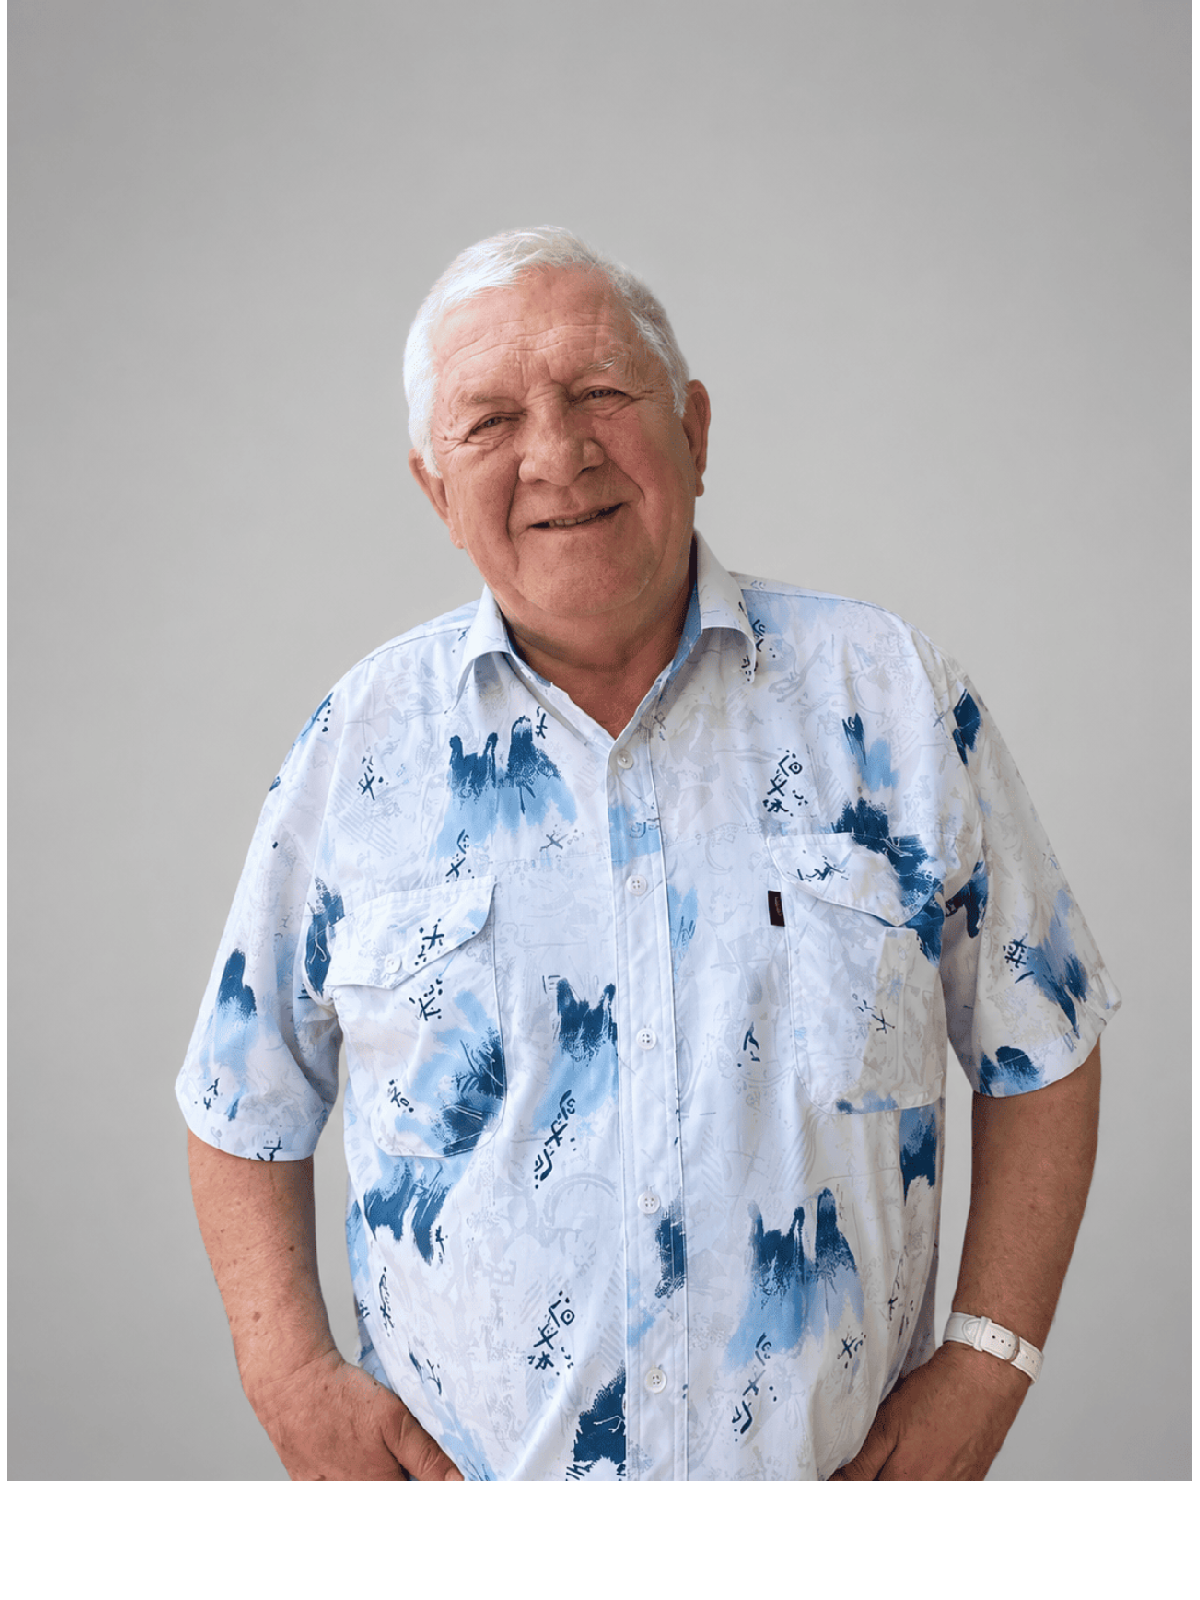
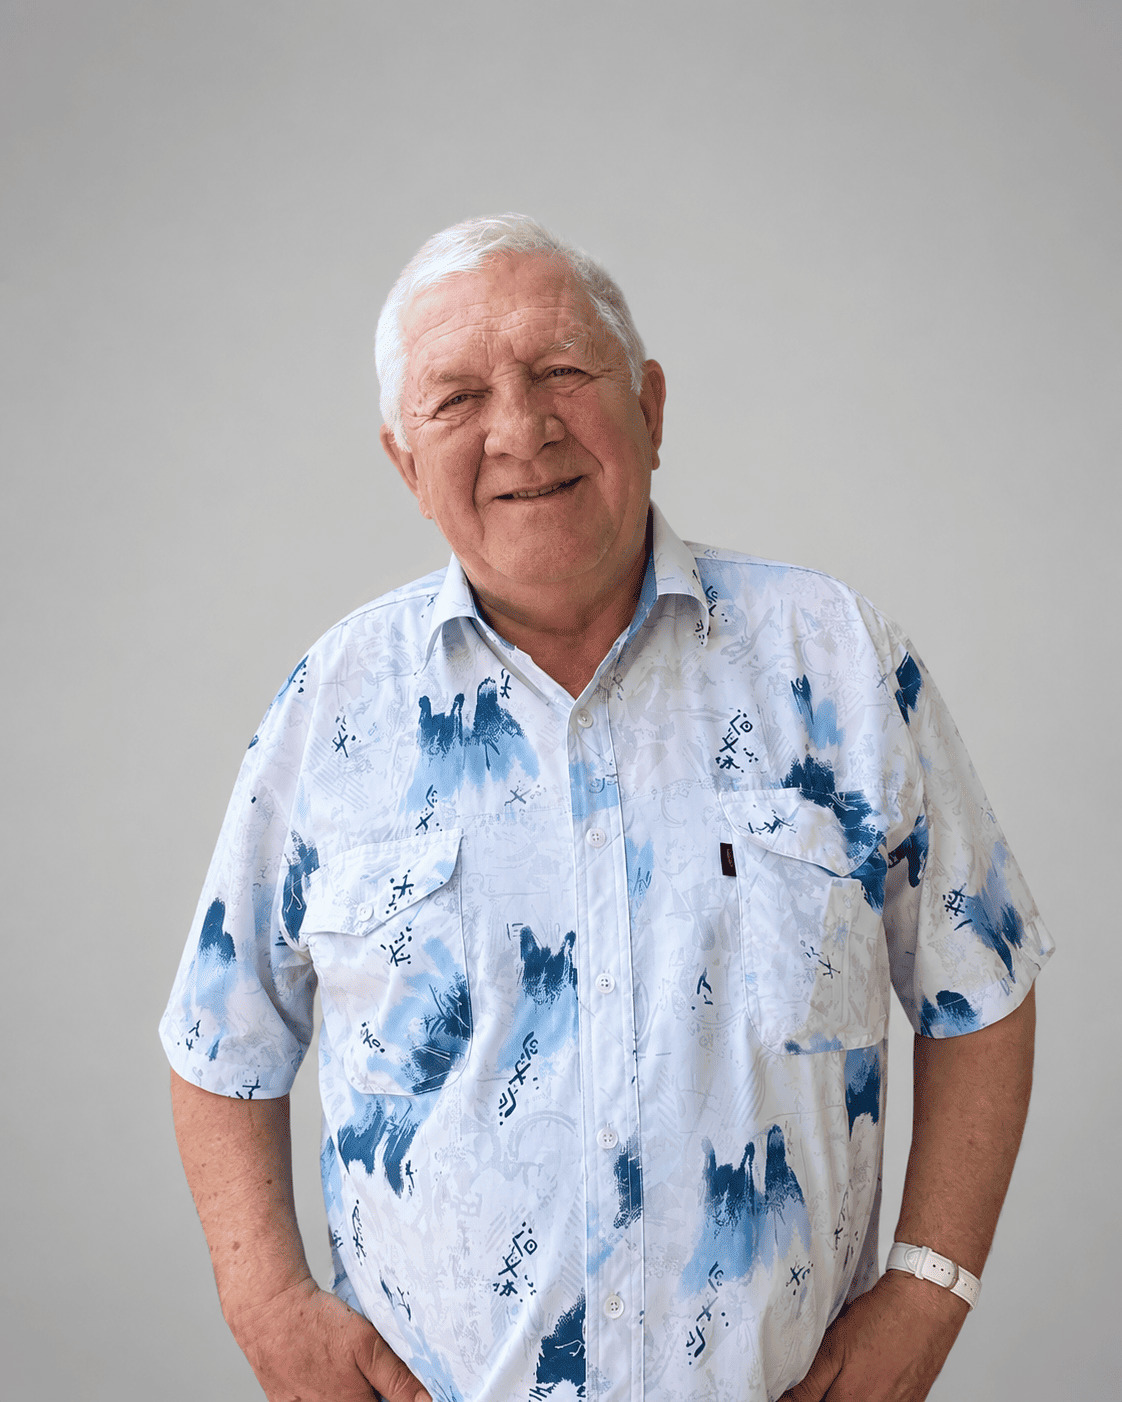
Fix specialist cards and responsive layout

diff --git a/css/responsive.css b/css/responsive.css
@@ -7901,7 +7901,7 @@ body.contacts-page .inner-content > * {
 /* =====================================================
    ALL INNER PAGES — HERO UP
    MOBILE ONLY
-   INDEX НЕ ЗАТРАГИВАЕМ
+   INDEX НЕ ЗАТРАГИВАЕМ 
 ===================================================== */
 
 @media (max-width:768px) {
@@ -7909,6 +7909,51 @@ body.contacts-page .inner-content > * {
     body.inner-page .inner-hero {
 
         transform:translateY(-30px);
+
+    }
+
+}
+
+/* =====================================================
+   CTA — DECORATIVE CORNER
+   MOBILE FIX
+===================================================== */
+
+@media (max-width:768px) {
+
+    .cta-box::before {
+
+        top:16px;
+
+        left:16px;
+
+    }
+
+}
+
+
+@media (max-width:480px) {
+
+    .cta-box::before {
+
+        top:12px;
+
+        left:12px;
+
+    }
+
+}
+
+/* =====================================================
+   TABLET HEADER — EXTRA BOTTOM SPACE
+   769px — 1024px фикс херо и текста
+===================================================== */
+
+@media (min-width:769px) and (max-width:1024px) {
+
+    .header .container {
+
+        min-height:190px;
 
     }
 

diff --git a/css/style.css b/css/style.css
@@ -14302,3 +14302,62 @@ body.contacts-page .inner-content > .info-block {
     box-sizing:border-box;
 
 }
+/* =====================================================
+   SPECIALIST CARDS — BOTTOM PANEL FIX ПОДЛОЖКА БЕЛАЯ ПОД КАРТЫ
+===================================================== */
+
+.team-cards .rehab-card {
+
+    height:460px;
+
+    overflow:hidden;
+
+    display:flex;
+
+    flex-direction:column;
+
+}
+
+
+.team-cards .rehab-card img {
+
+    flex:0 0 350px;
+
+    width:100%;
+
+    height:350px;
+
+    object-fit:cover;
+
+    object-position:center;
+
+}
+
+
+.team-cards .rehab-card h3 {
+
+    flex:1;
+
+    height:auto;
+
+    min-height:110px;
+
+    margin:0;
+
+    padding:10px 14px 16px;
+
+    display:flex;
+
+    align-items:flex-start;
+
+    justify-content:center;
+
+    background:
+        linear-gradient(
+            180deg,
+            rgba(255,255,255,.82),
+            rgba(244,242,233,.96)
+        );
+
+}
+
